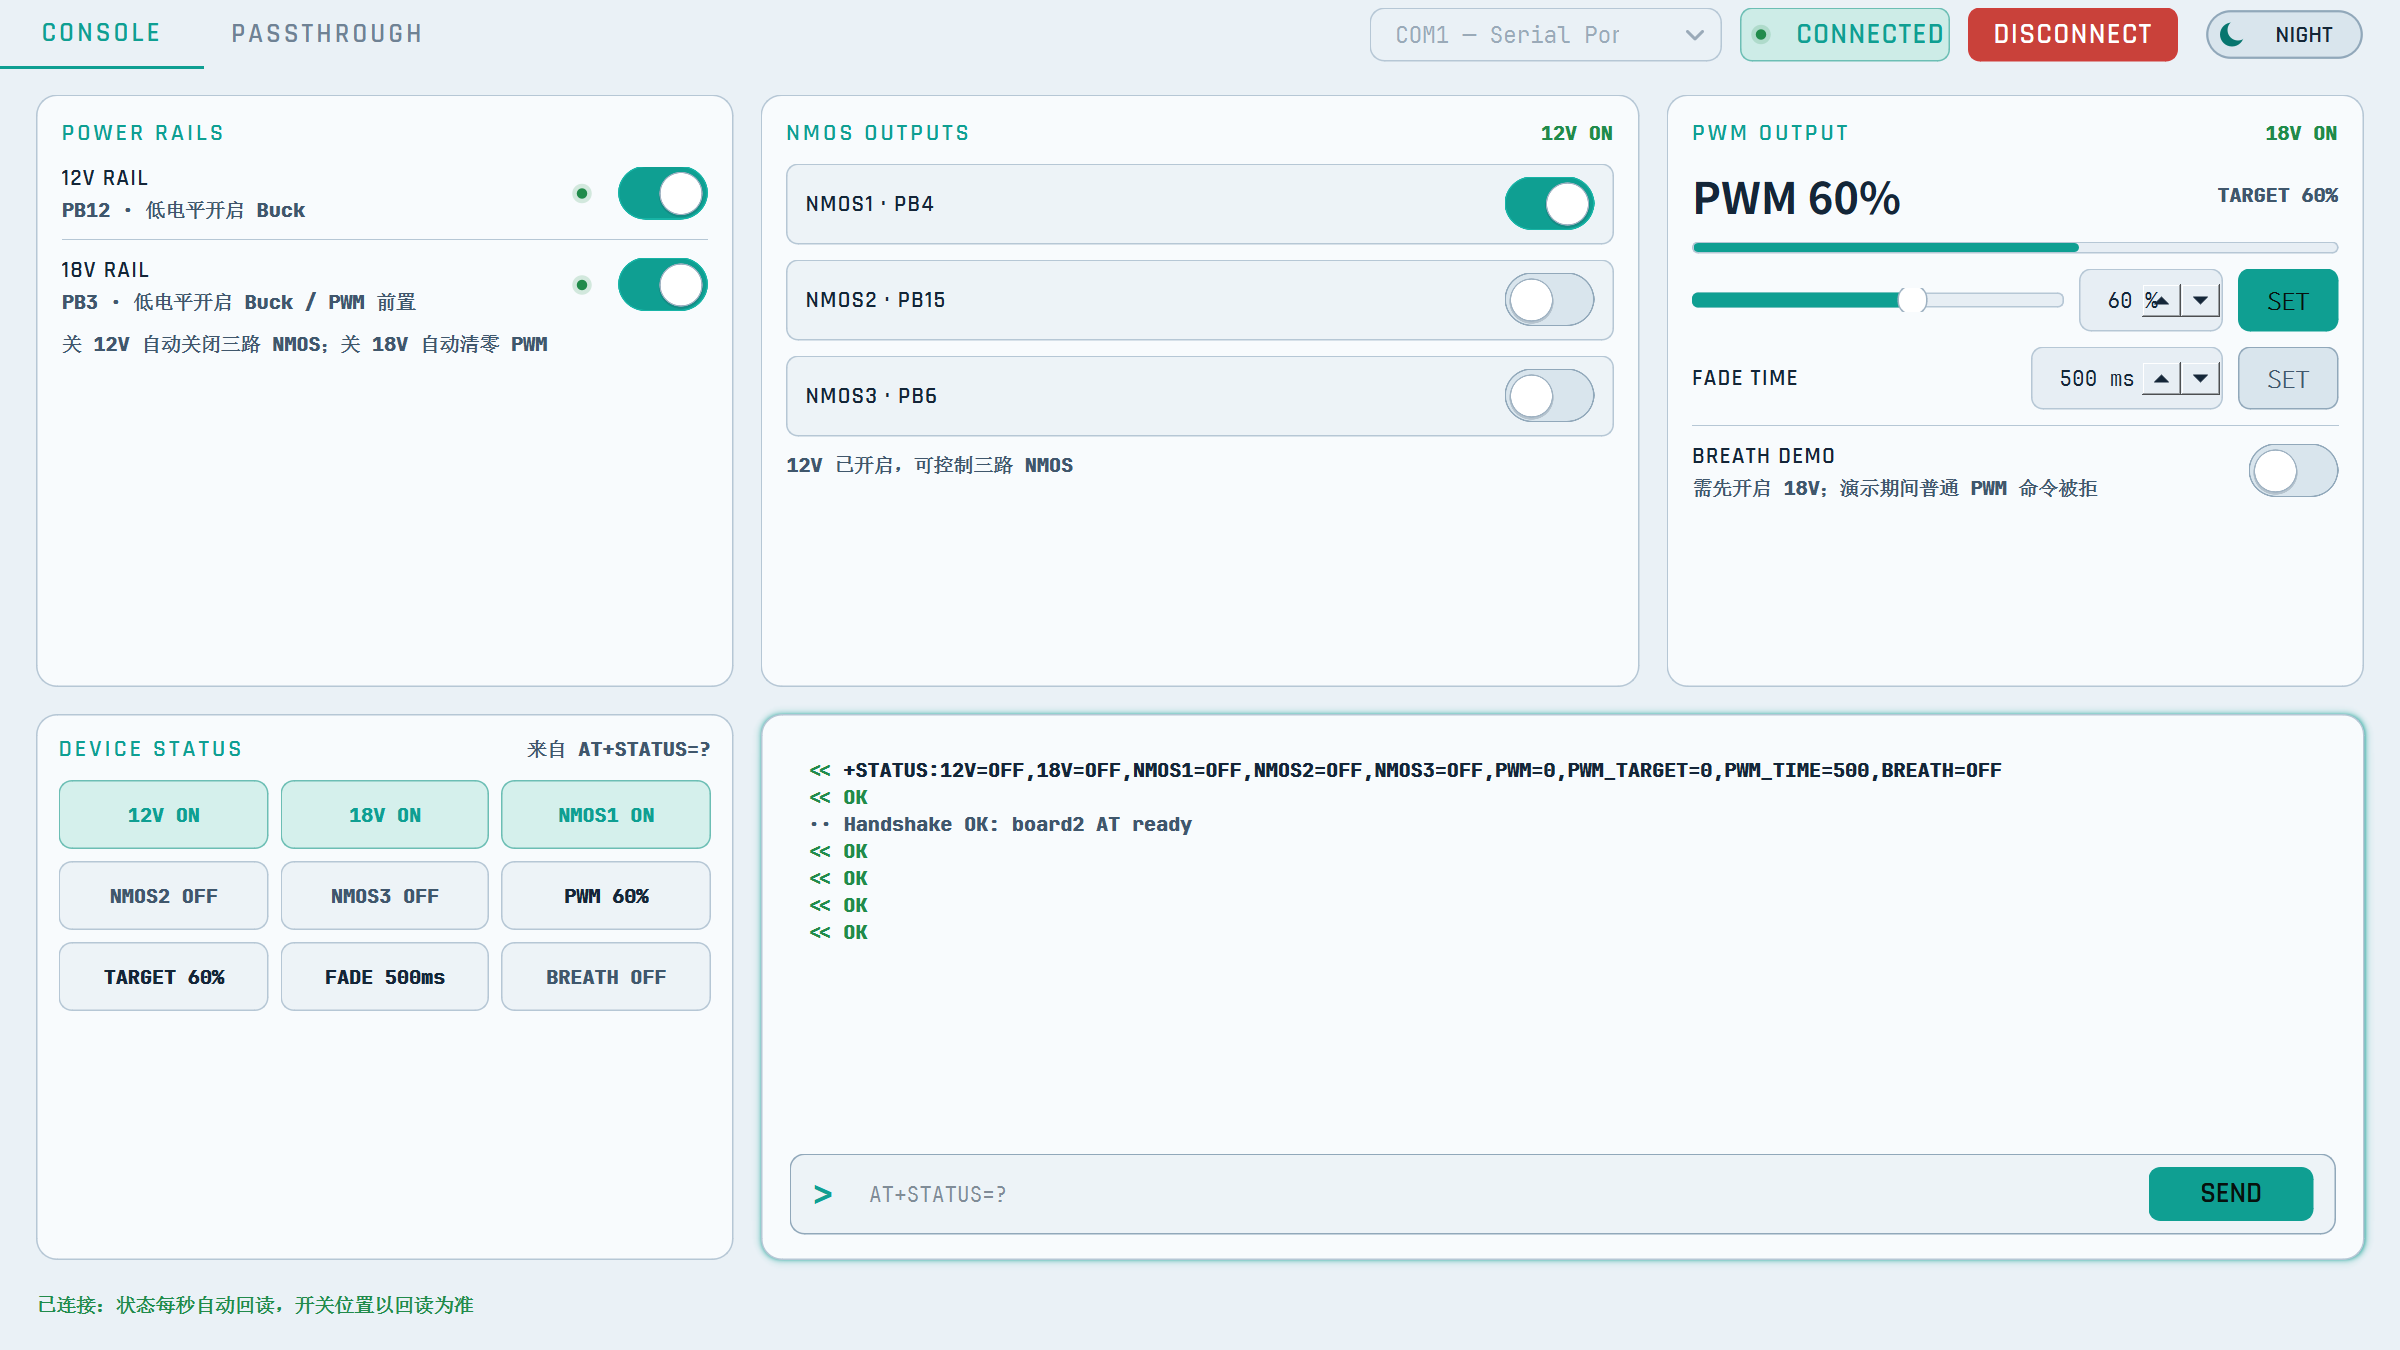
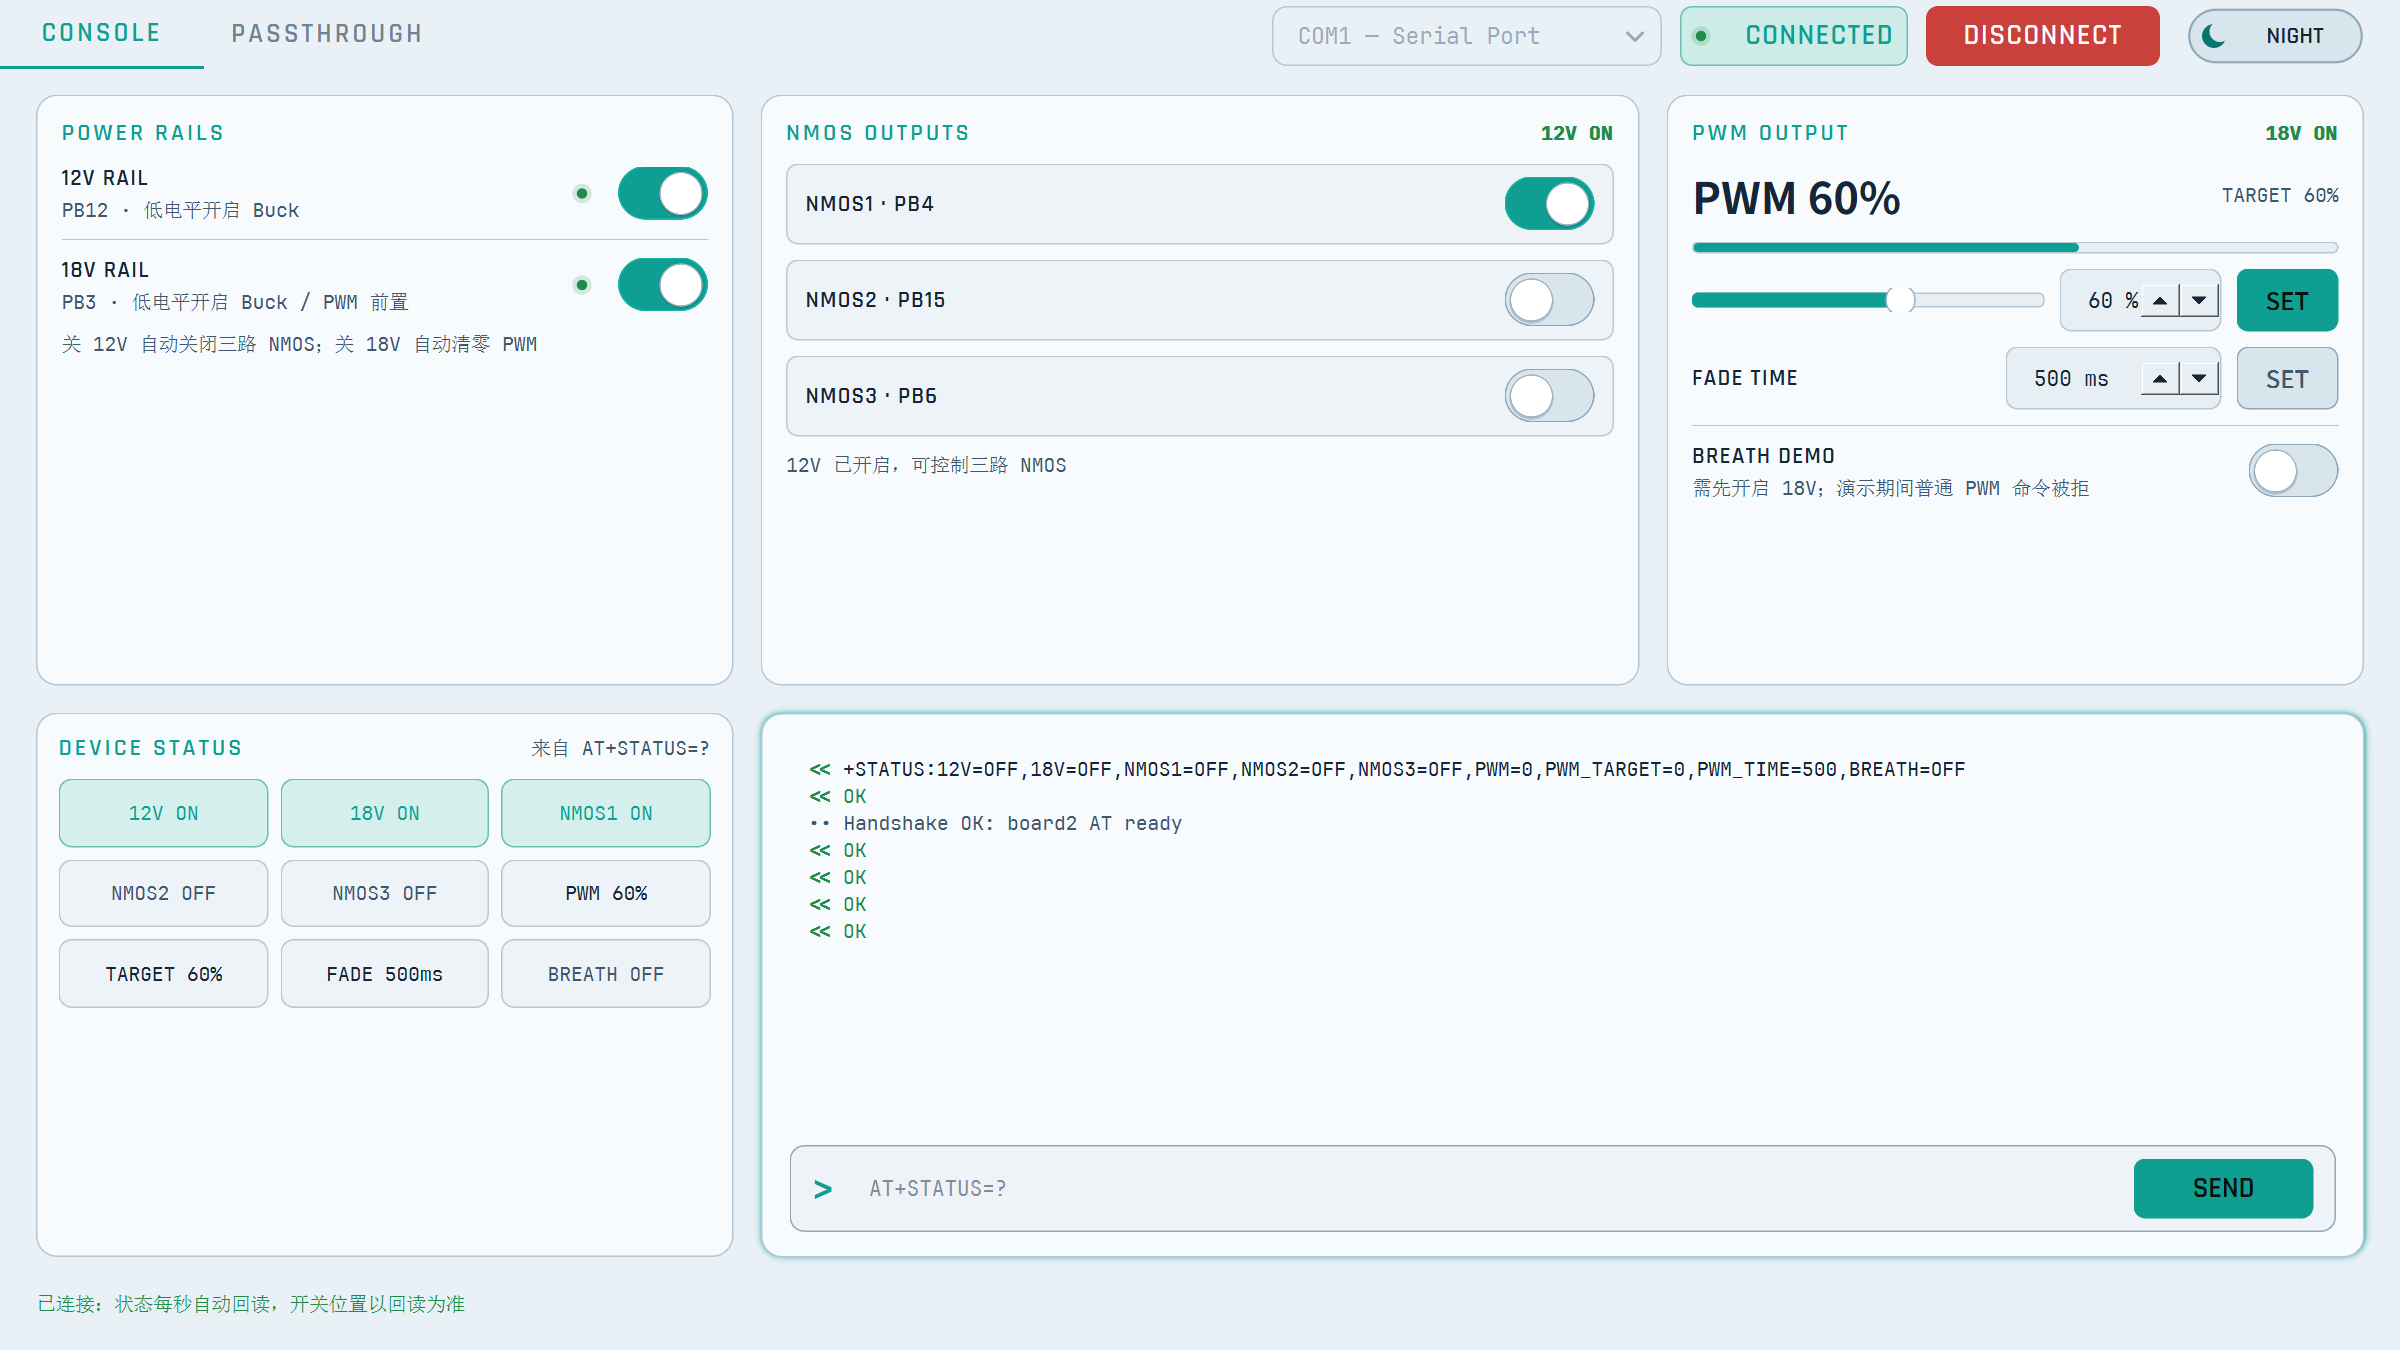
style(ui): 撤销层级加粗回归原字重; 控件尺寸随字号整体协调 (控制高36→40/串口栏组件与头高同步放大/输入框与SEND按钮加宽)

diff --git a/stem_hub_board2_host/ui/widgets/at_console.py b/stem_hub_board2_host/ui/widgets/at_console.py
@@ -96,7 +96,7 @@ class AtConsole(QFrame):
         self.send_btn.setObjectName("primary")
         self.send_btn.setCursor(Qt.CursorShape.PointingHandCursor)
         self.send_btn.setFixedHeight(theme.CONTROL_HEIGHT)
-        self.send_btn.setMinimumWidth(110)
+        self.send_btn.setMinimumWidth(120)
         f_btn = QFont(theme.FONT_DISPLAY)
         f_btn.setPointSize(14)
         f_btn.setBold(True)
@@ -175,7 +175,7 @@ class AtConsole(QFrame):
             message_color = theme.FG_PRIMARY
         self.log_view.appendHtml(
             f'<span style="color: {color}; font-weight: 700;">{escaped_prefix}</span> '
-            f'<span style="color: {message_color}; font-weight: 600; font-family: \'{theme.FONT_MONO}\';">'
+            f'<span style="color: {message_color}; font-family: \'{theme.FONT_MONO}\';">'
             f"{escaped_text}</span>"
         )
         scrollbar = self.log_view.verticalScrollBar()

diff --git a/stem_hub_board2_host/ui/widgets/pwm_card.py b/stem_hub_board2_host/ui/widgets/pwm_card.py
@@ -78,7 +78,7 @@ class PwmCard(QFrame):
         self.pwm_spin = QSpinBox()
         self.pwm_spin.setRange(0, 100)
         self.pwm_spin.setSuffix(" %")
-        self.pwm_spin.setFixedWidth(96)
+        self.pwm_spin.setFixedWidth(108)
         self.pwm_slider.valueChanged.connect(self.pwm_spin.setValue)
         self.pwm_spin.valueChanged.connect(self.pwm_slider.setValue)
         pwm_row.addWidget(self.pwm_spin)
@@ -102,7 +102,7 @@ class PwmCard(QFrame):
         self.time_spin.setRange(0, 10000)
         self.time_spin.setSingleStep(100)
         self.time_spin.setSuffix(" ms")
-        self.time_spin.setFixedWidth(128)
+        self.time_spin.setFixedWidth(144)
         time_row.addWidget(self.time_spin)
         self.time_apply = QPushButton("SET")
         self.time_apply.setObjectName("secondaryAction")

diff --git a/stem_hub_board2_host/ui/theme.py b/stem_hub_board2_host/ui/theme.py
@@ -19,12 +19,12 @@ COLUMN_STRETCH_CENTER = 126
 COLUMN_STRETCH_RIGHT = 100
 ROW_STRETCH_TOP = 52
 ROW_STRETCH_BOTTOM = 48
-SERIAL_COMBO_WIDTH = 235
-SERIAL_BADGE_WIDTH = 140
-SERIAL_BUTTON_WIDTH = 140
-SERIAL_CONTROL_HEIGHT = 36
-SERIAL_HEADER_HEIGHT = 44
-SERIAL_HEADER_WIDTH = 539
+SERIAL_COMBO_WIDTH = 260
+SERIAL_BADGE_WIDTH = 152
+SERIAL_BUTTON_WIDTH = 156
+SERIAL_CONTROL_HEIGHT = 40
+SERIAL_HEADER_HEIGHT = 48
+SERIAL_HEADER_WIDTH = 592
 SERIAL_HEADER_GAP = 18
 SERIAL_DOT_CENTER_X = 14
 SERIAL_BADGE_TEXT_INSET = 34
@@ -37,8 +37,8 @@ SWITCH_BORDER_WIDTH = 1.0
 SWITCH_FOCUS_WIDTH = 1.5
 SWITCH_SHADOW_ALPHA = 52
 SWITCH_SHADOW_OFFSET_Y = 1.0
-CONTROL_HEIGHT = 36
-CONTROL_HEIGHT_SM = 34
+CONTROL_HEIGHT = 40
+CONTROL_HEIGHT_SM = 38
 BORDER_WIDTH = 1
 FOCUS_BORDER_WIDTH = 2
 CARD_RADIUS = 14

diff --git a/stem_hub_board2_host/ui/widgets/theme_toggle.py b/stem_hub_board2_host/ui/widgets/theme_toggle.py
@@ -20,7 +20,7 @@ class ThemeToggleButton(QAbstractButton):
     ) -> None:
         super().__init__(parent)
         self._scheme = scheme
-        self.setFixedSize(106, theme.CONTROL_HEIGHT_SM)
+        self.setFixedSize(118, theme.CONTROL_HEIGHT_SM)
         self.setCursor(Qt.CursorShape.PointingHandCursor)
         self.setFocusPolicy(Qt.FocusPolicy.StrongFocus)
         self.setAccessibleName("Toggle day and night appearance")

diff --git a/stem_hub_board2_host/ui/widgets/passthrough_panel.py b/stem_hub_board2_host/ui/widgets/passthrough_panel.py
@@ -310,7 +310,7 @@ class PassthroughPanel(QFrame):
     def _apply_mode_style(self, active: bool) -> None:
         color = theme.ACCENT if active else theme.FG_SECONDARY
         self.mode_hint.setStyleSheet(
-            f"color: {color}; font-weight: {'700' if active else '600'};"
+            f"color: {color}; font-weight: {'700' if active else '400'};"
             " background: transparent;"
         )
 

diff --git a/stem_hub_board2_host/ui/main_window.py b/stem_hub_board2_host/ui/main_window.py
@@ -372,7 +372,7 @@ class MainWindow(QMainWindow):
             color = theme.STATUS_OK
         hint.setText(text)
         hint.setStyleSheet(
-            f"color: {color}; font-weight: 600; background: transparent; border: none;"
+            f"color: {color}; background: transparent; border: none;"
         )
 
     # ---- 串口 ----

diff --git a/stem_hub_board2_host/ui/tab1_console.py b/stem_hub_board2_host/ui/tab1_console.py
@@ -83,7 +83,7 @@ class ConsoleTab(QWidget):
             "未连接：选择串口并点击 CONNECT (固定 9600 8N1)"
         )
         self.conn_hint.setObjectName("secondary")
-        self.conn_hint.setFixedHeight(24)
+        self.conn_hint.setFixedHeight(26)
         outer.addWidget(self.conn_hint)
 
         # 信号
